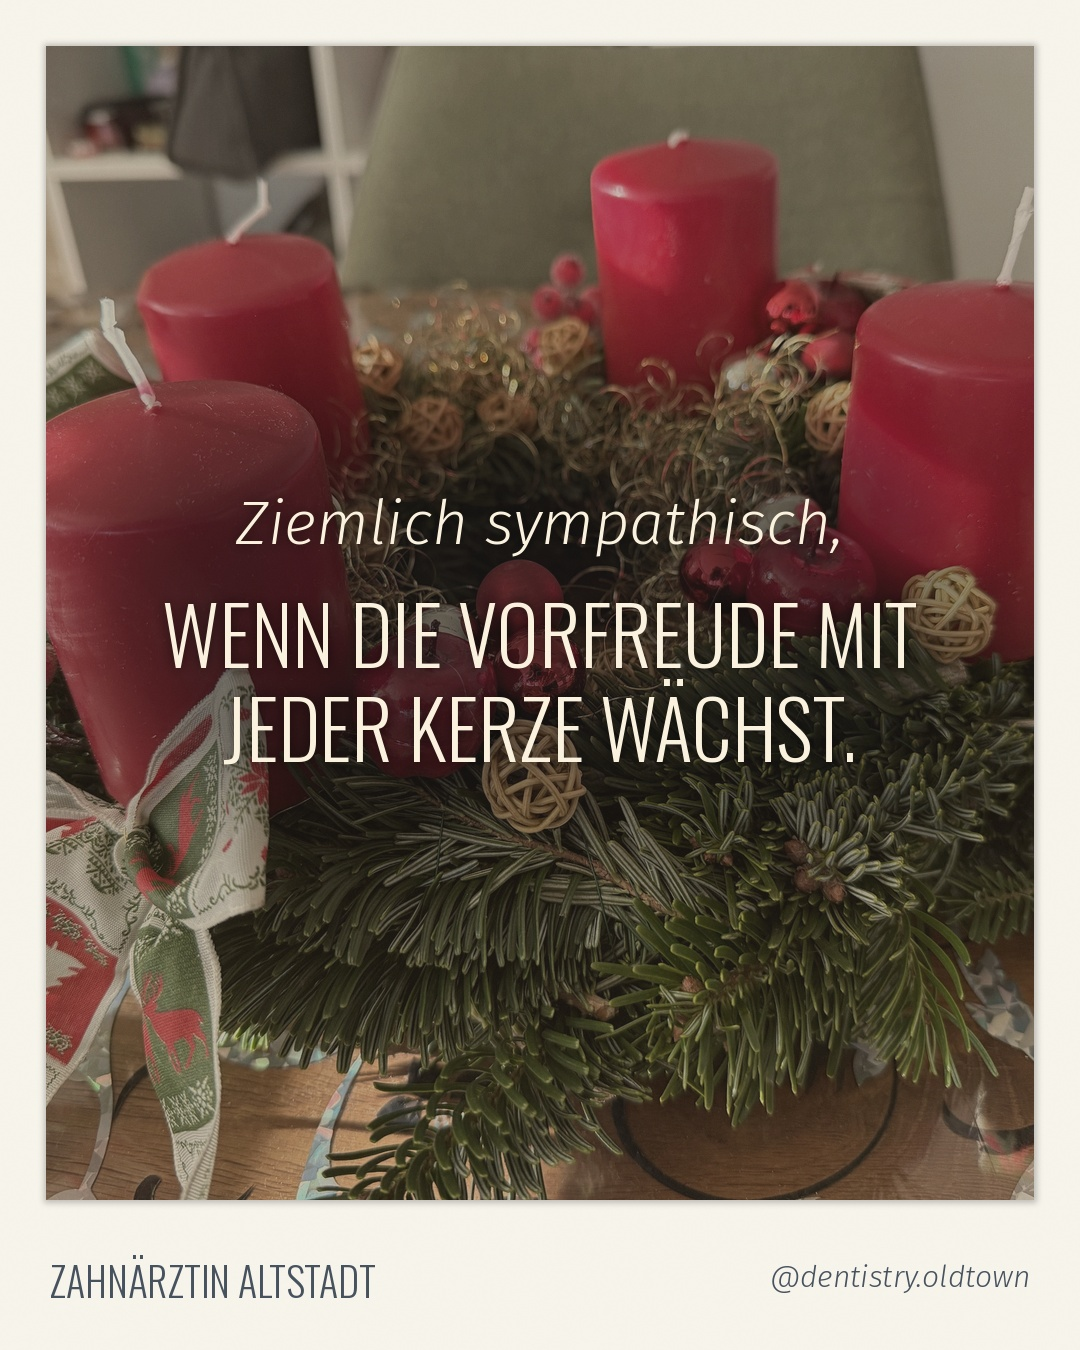
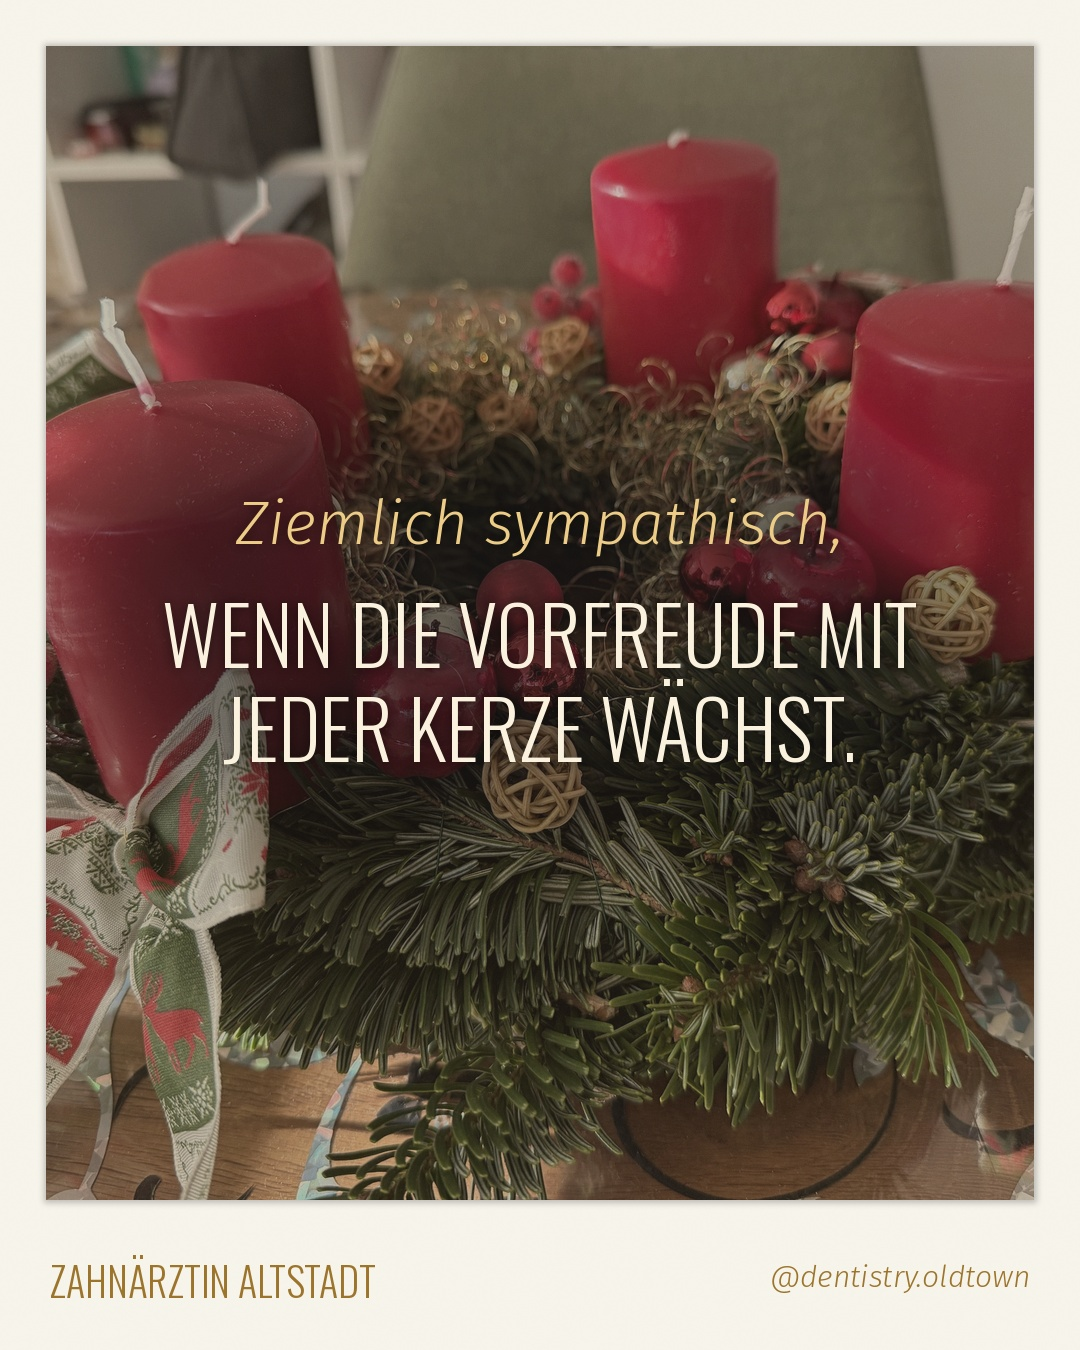
Sympathisch Advent: Goldschrift bleibt
Claude-Session: https://claude.ai/code/session_012SPZoo3349FxBHtRPxeMWn

diff --git a/AGENT.md b/AGENT.md
@@ -74,7 +74,7 @@ Idea from Neda (inspired by an orthodontist's "kinda chic to …" carousel – a
 - Any carousel scene accepts `"frame": true` (same paper frame); in the series the closing `close` slide is always framed.
 - Scene type `photo` exists: `{"type":"photo","photo":"photos/praxis/<file>.jpg","text":"wenn …","focus":[x,y],"shade":120}` (framed analog print, text on photo; "Ziemlich sympathisch," added automatically; optional "dy", "shade", "size"). Last slide: `close`. Neda's approved look: `drafts/_demo_sympathisch/` (5 photos + close).
 - Episode 1 (Fri 30.10.2026, posts/2026-10-30_serie_ziemlich-sympathisch) is done and scheduled and used all five current photos (wartezimmer, globus, voegel, blumen_1, blumen_2). Episode 2 (Fri 27.11.2026 10:00) is an ADVENT edition: Neda puts 5 Advent photos from the practice into her Google Drive folder "Insta Praxisfotos" (search Drive by that folder title, download with download_file_content, store as photos/praxis/advent_*.jpg); write calm Advent-flavoured "wenn …" lines (no promotions, no gifts/vouchers).
-  Neda-approved plan for episode 2: SAME framed analog look as episode 1 (normal frame, NO gold – Neda tried gold and chose the original look) – sample: `drafts/sympathisch_advent_probe/`. Photo ideas she got: fairy lights/Advent wreath at reception, fir sprig or star on the counter, a cup of tea in the waiting room, window with old-town view at dusk, candle/light bokeh. Line ideas (adapt to the actual photos): "wenn es in der Praxis schon nach Advent aussieht." · "wenn man in der hektischen Zeit kurz durchatmen darf." · "wenn jemand fragt: Und wie geht's Ihnen eigentlich?" · "wenn man auch im Dezember nicht hetzen muss." · "wenn sich ein Termin wie eine kleine Pause anfühlt." Neda already sent 3 Advent photos (photos/praxis/advent_kranz.jpg, advent_fenster.jpg, advent_kekse.jpg) – test carousel she saw: drafts/sympathisch_advent_probe/ (lines Neda saw: wreath "wenn die Vorfreude mit jeder Kerze wächst." · window "wenn draußen die Altstadt leuchtet und drinnen jemand Zeit für Sie hat." · cookies "wenn auch die Zahnärztin Kekse bäckt." – lines must match what the photo shows and make sense on their own). Use these plus any new ones from Drive; 3 photos are enough if no more arrive. Closing slide (framed): "Eine ruhige Adventszeit!" + "Ihr Team der Zahnärztin Altstadt." + practice card. From then on ask Neda (in the approval email) for new photos so the series does not look repetitive.
+  Neda-approved plan for episode 2: SAME framed analog look as episode 1 with `"frame_ink": "gold"` (gold brand text on the frame + gold "Ziemlich sympathisch," – Neda approved gold) – sample: `drafts/sympathisch_advent_probe/`. Photo ideas she got: fairy lights/Advent wreath at reception, fir sprig or star on the counter, a cup of tea in the waiting room, window with old-town view at dusk, candle/light bokeh. Line ideas (adapt to the actual photos): "wenn es in der Praxis schon nach Advent aussieht." · "wenn man in der hektischen Zeit kurz durchatmen darf." · "wenn jemand fragt: Und wie geht's Ihnen eigentlich?" · "wenn man auch im Dezember nicht hetzen muss." · "wenn sich ein Termin wie eine kleine Pause anfühlt." Neda already sent 3 Advent photos (photos/praxis/advent_kranz.jpg, advent_fenster.jpg, advent_kekse.jpg) – test carousel she saw: drafts/sympathisch_advent_probe/ (lines Neda saw: wreath "wenn die Vorfreude mit jeder Kerze wächst." · window "wenn draußen die Altstadt leuchtet und drinnen jemand Zeit für Sie hat." · cookies "wenn auch die Zahnärztin Kekse bäckt." – lines must match what the photo shows and make sense on their own). Use these plus any new ones from Drive; 3 photos are enough if no more arrive. Closing slide (framed): "Eine ruhige Adventszeit!" + "Ihr Team der Zahnärztin Altstadt." + practice card. From then on ask Neda (in the approval email) for new photos so the series does not look repetitive.
 
 ## Adventskalender 2026 (Neda-approved 20.10.2026) – 24 Türchen, 1.–24.12., daily 18:00
 - Spec: `"theme": "advent"` and `"door": <n>` (dark green Advent look, gold door badge). Approved sample: `drafts/advent_muster/` (Türchen 1). Alternate formats: odd doors = REEL (12–17 s, attention rules apply), even doors = carousel (5–6 slides). Close slide body: "Morgen öffnen wir Türchen Nummer <n+1>." (door 24 different, see below).
